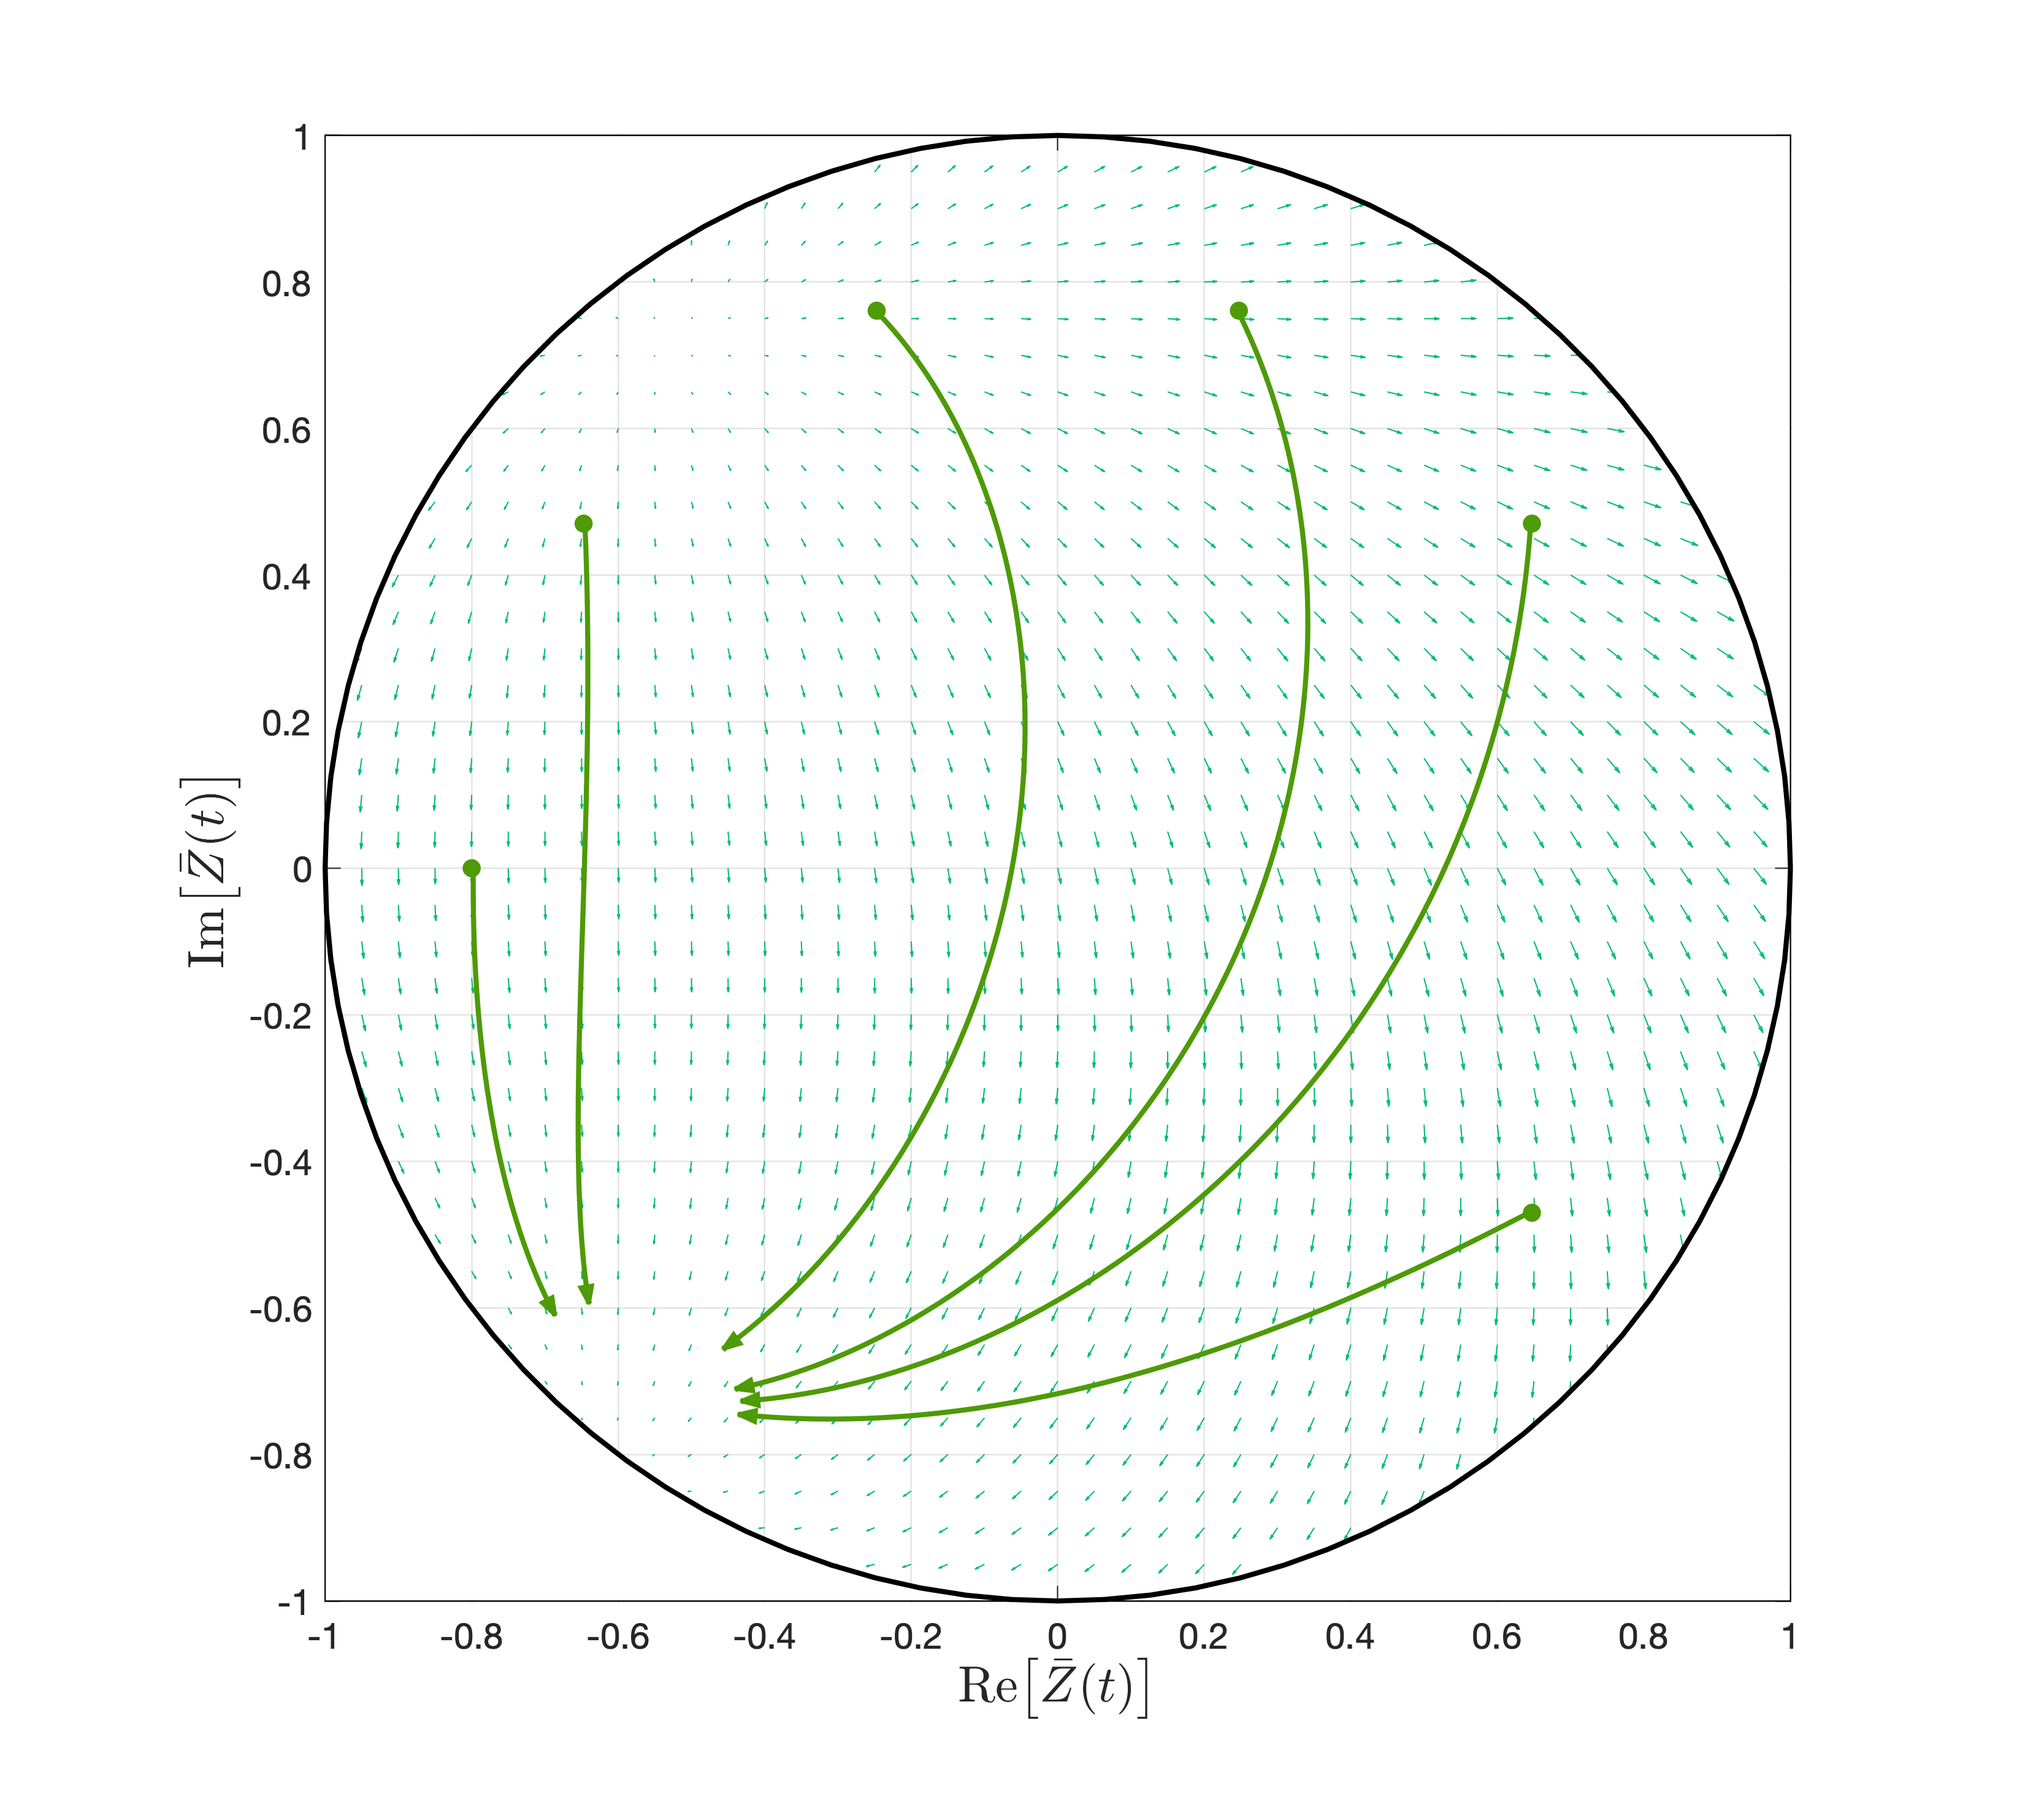
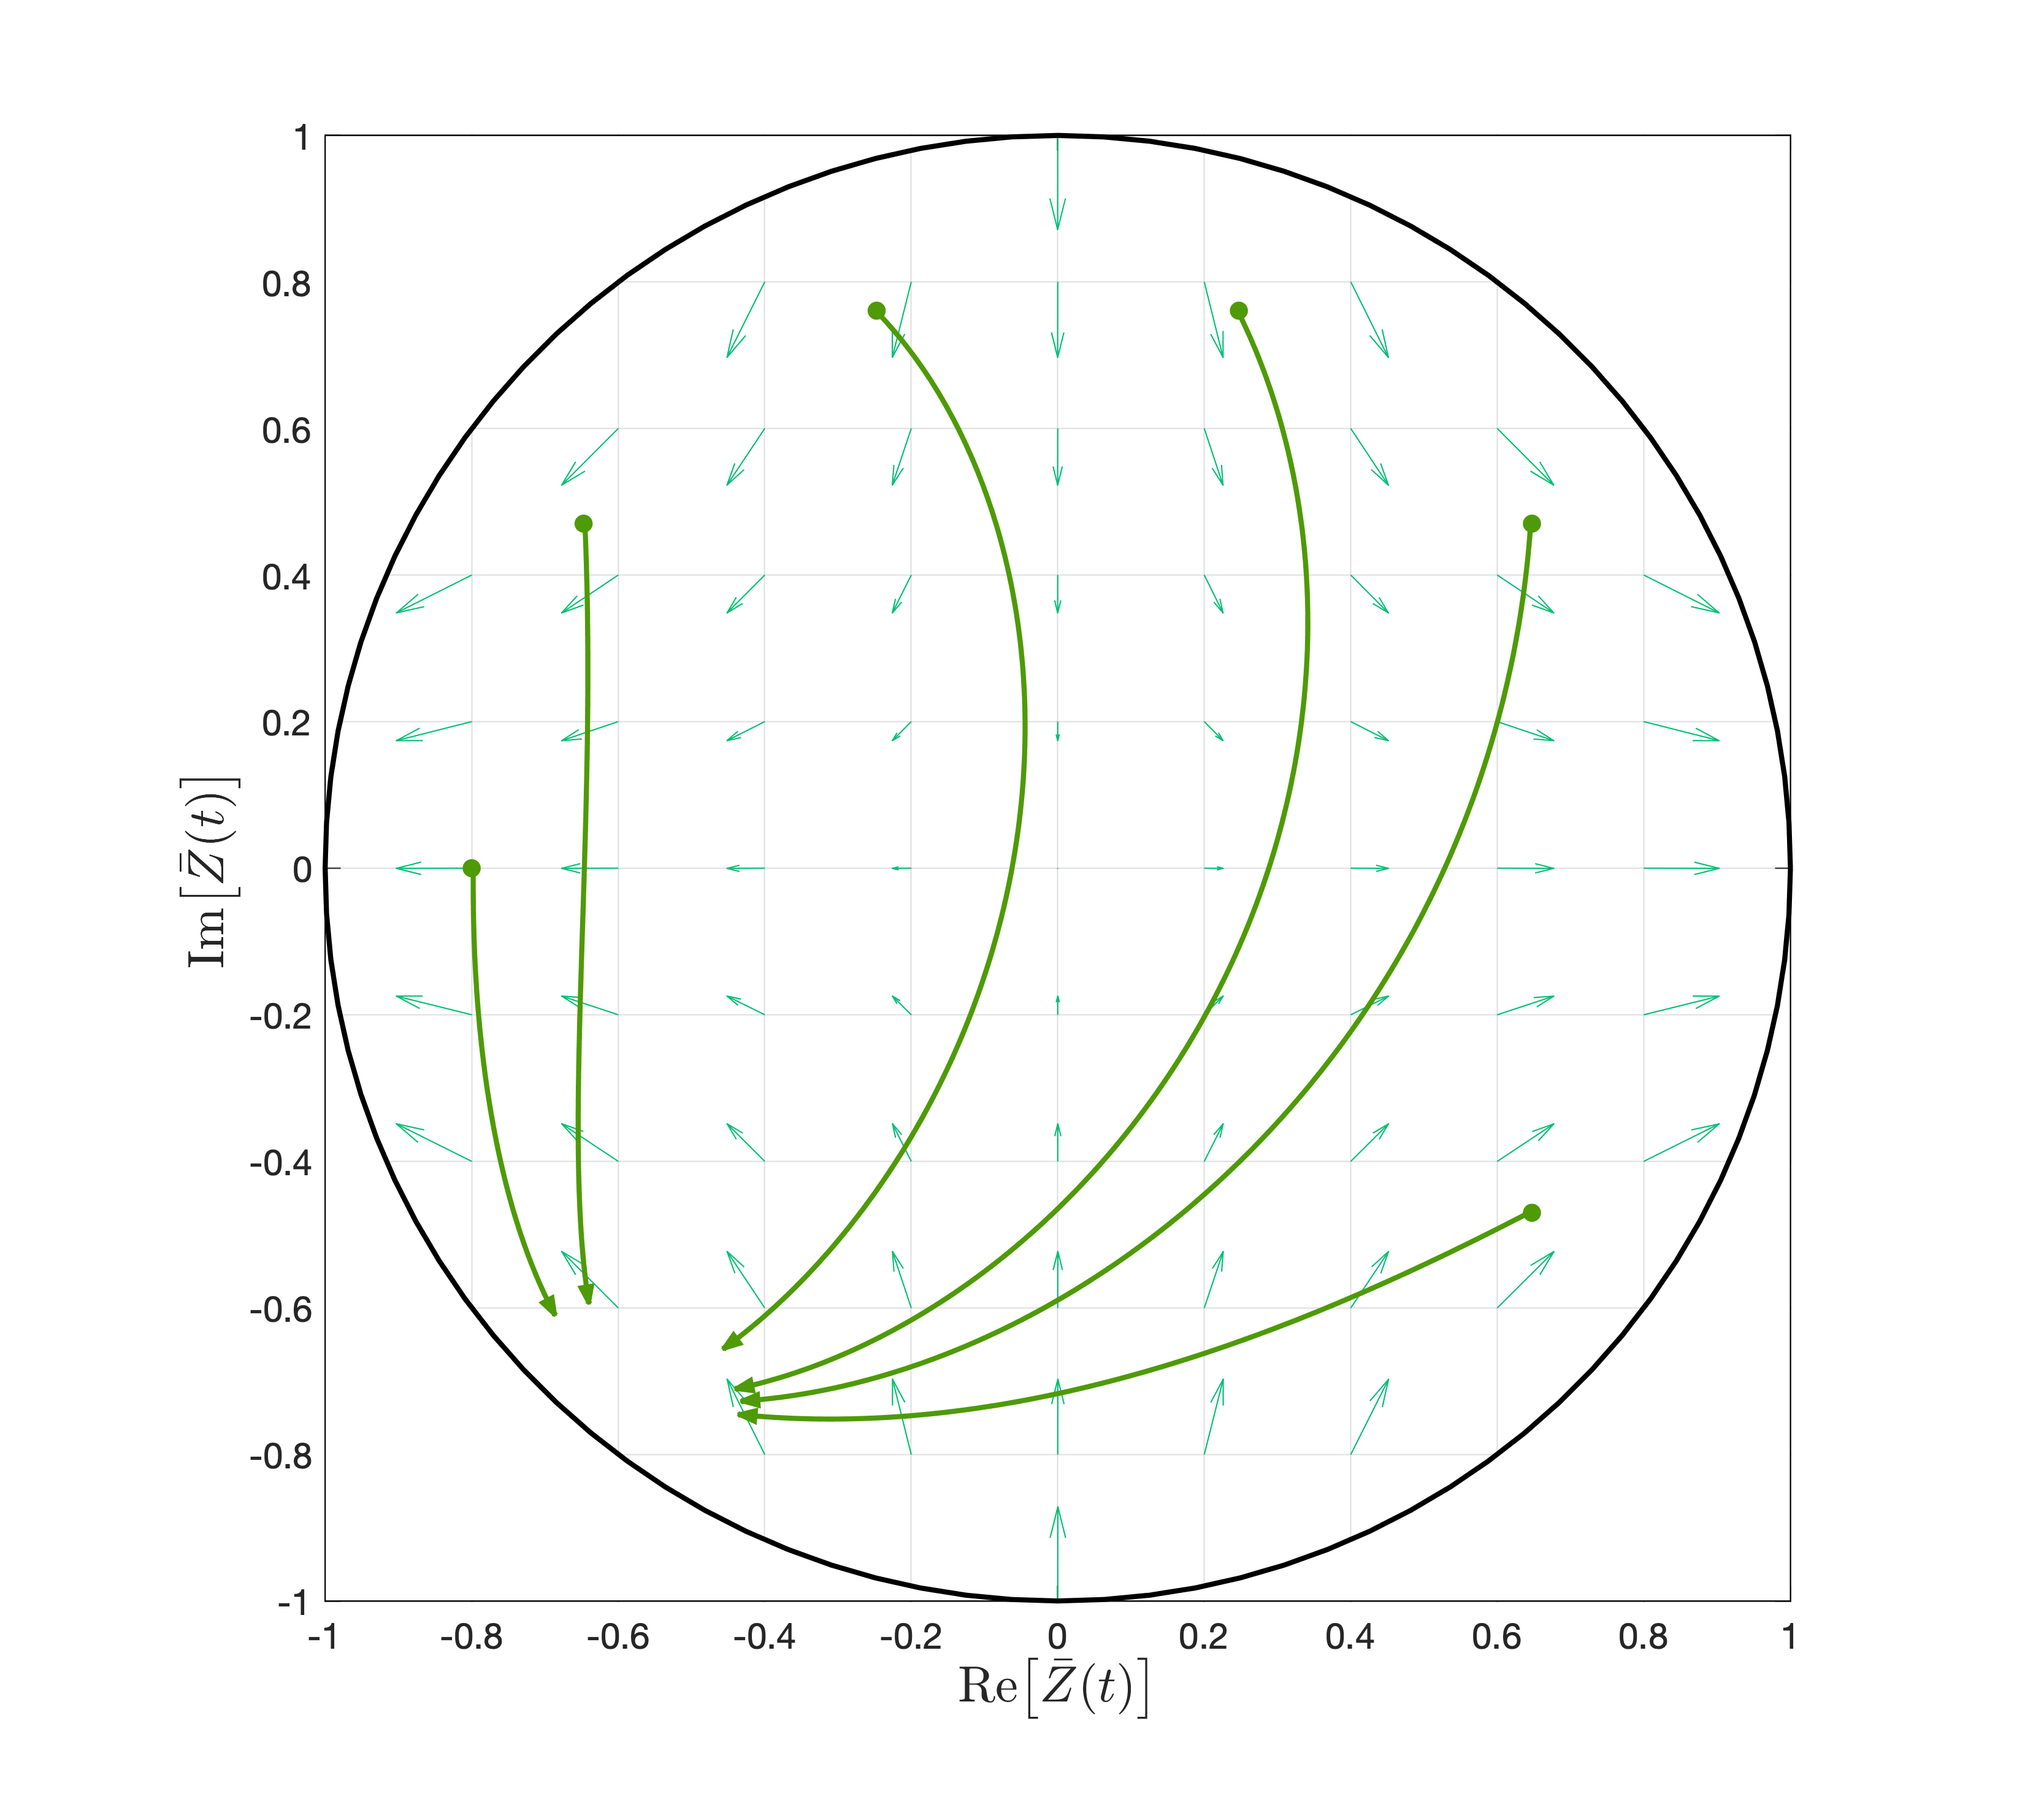
vector field not fully working

diff --git a/Mean Field Reductions/PhaseSpace.m b/Mean Field Reductions/PhaseSpace.m
@@ -27,7 +27,7 @@ unitcircle = [cos(th); sin(th)];
 drawcircle = round(unitcircle);
 
 % Main grid:
-l = 1; stp = 2*l/40; interval = -l:stp:l;
+l = 1; stp = 8*l/40; interval = -l:stp:l;
 [X,Y] = meshgrid(interval,interval);
 
 [in, ~] = inpolygon(X, Y, cos(th), sin(th));
@@ -250,13 +250,13 @@ z0idx = 1;
 for i = 1:numel(ICs)
     [r, c] = ind2sub([xdim, ydim], i);
 %     z0s(r, c) = -map_zoatoZ(MFROA(0, map_Ztozoa(ICs(i),p),p)',p);
-    z0s(r, c) = -map_zoatoZ(MFROA(0, find_ICs(map_Ztozoa(ICs(i),p)', ICs(i), p.P(p.k)/p.N)',p)',p);
-%     if in(r,c) == 1
-%         [~, sim] = OA_simulatenetwork(0, 0.001, map_Ztozoa(ICs(i),p), p, odeoptions, false);
-%         z0s(r, c) = sim(1);
-%     else 
-%         z0s(r, c) = 0;
-%     end
+%     z0s(r, c) = -map_zoatoZ(MFROA(0, find_ICs(map_Ztozoa(ICs(i),p)', ICs(i), p.P(p.k)/p.N)',p)',p);
+    if in(r,c) == 1
+        [~, sim] = OA_simulatenetwork(0, 0.001, map_Ztozoa(ICs(i),p), p, odeoptions, true);
+        z0s(r, c) = sim(end);
+    else 
+        z0s(r, c) = 0;
+    end
     z0idx = z0idx + 1;
 end
 q = quiver(real(ICs), imag(ICs), real(z0s), imag(z0s), 0.5, 'color', cm(2,:));
